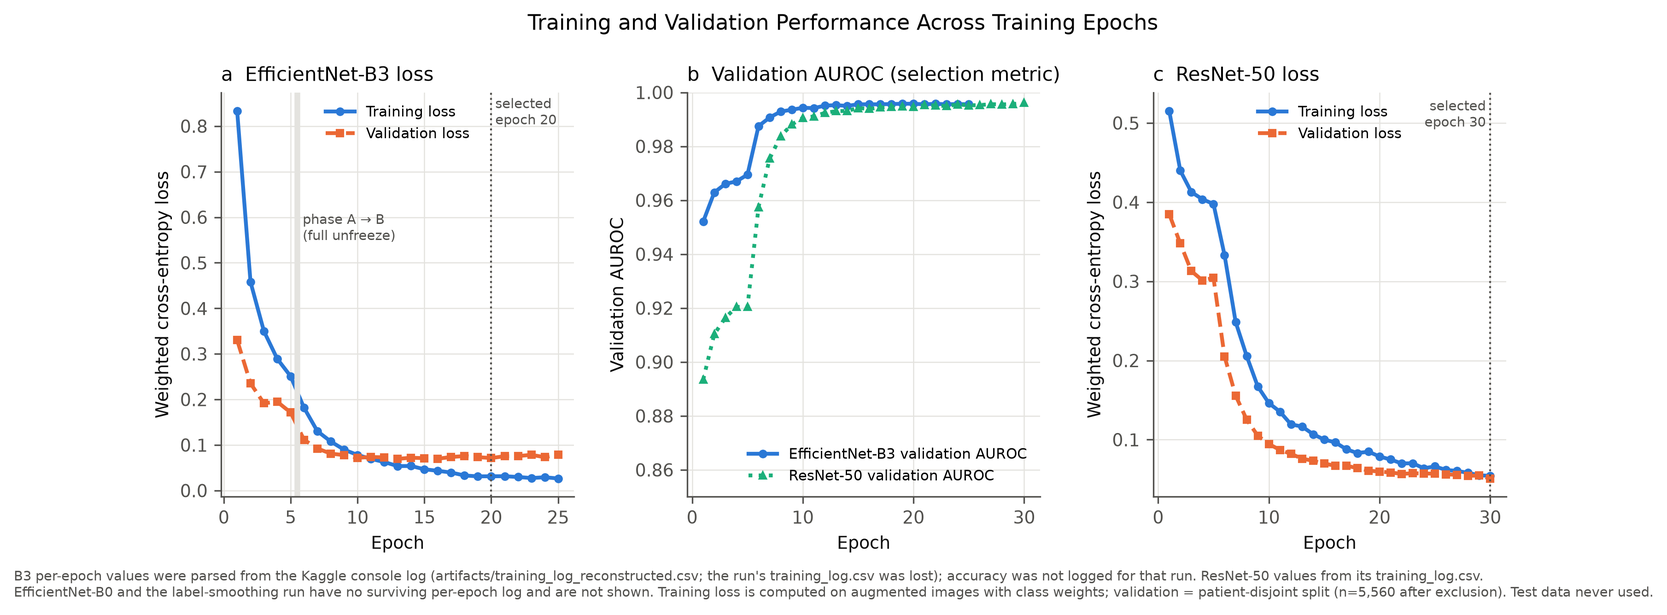
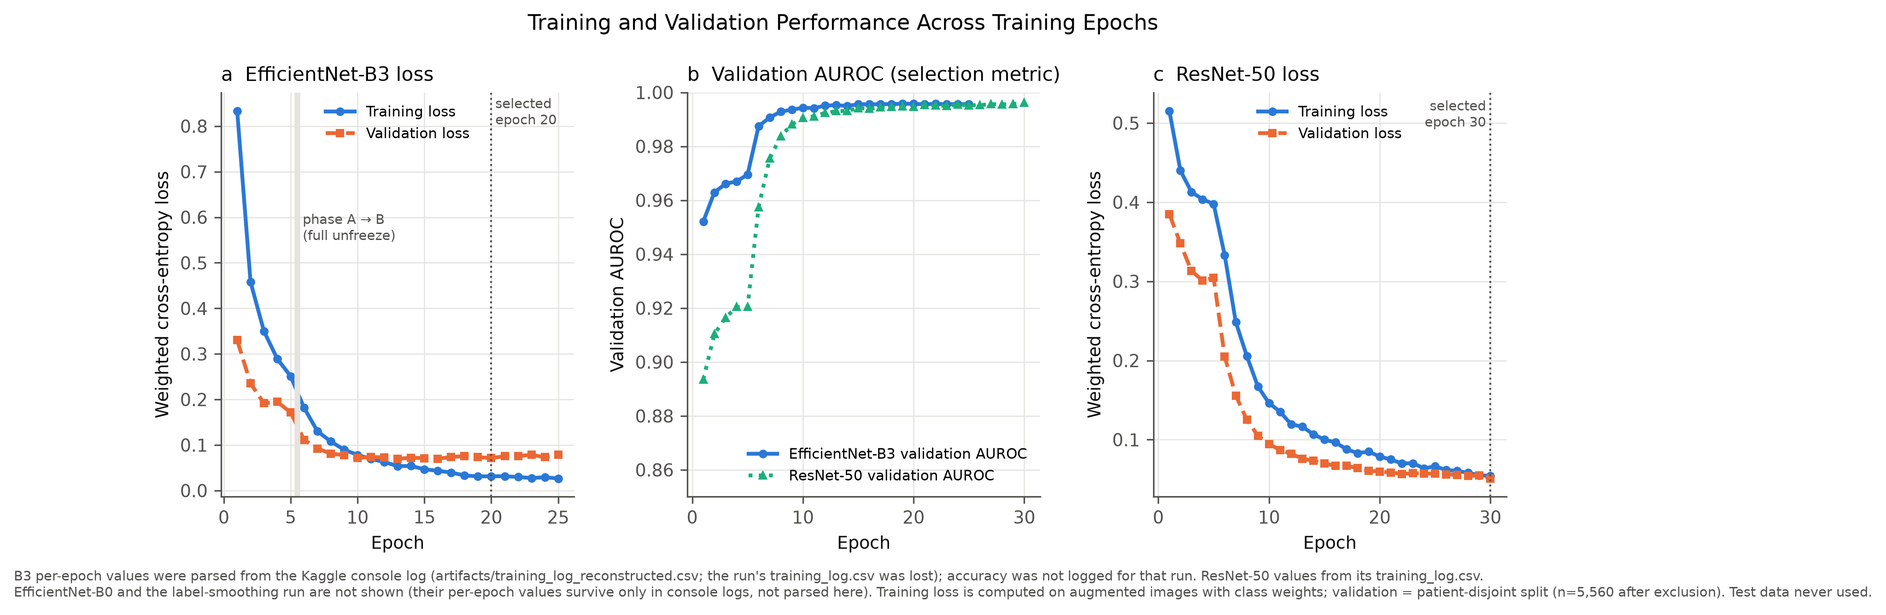
Verify B0 test-patient exclusion and Kermany dataset details
- B0: the audited checkpoint's weights are bitwise identical to run
  20260920T095427Z, whose console log records the exclusion of the 305
  test-set patients (train 24,600 / val 5,560). The run's compiled
  utils/train bytecode also matches the current source. B1 split
  independence is now PASS for all four models.
- Kermany et al. 2018: device (Spectralis), centres, dates and three-tier
  grading verified against the published STAR Methods (archived Cell full
  text); "prior knowledge" caveats removed from tables and report. Notes
  that the paper's 108,312-image / 1,000-image-test description differs
  from the released 83,484 / 484-image DME+Normal data.
- Docs, checklist, Tables 1/3/5 and the Figure 4 note updated; final
  checks 11/11 pass.

diff --git a/research_outputs/scripts/09_make_tables.py b/research_outputs/scripts/09_make_tables.py
@@ -53,8 +53,8 @@ def main():
         return {"Dataset/source": src, "Subset": subset, "Images": n_override or (f"{len(d):,}" if d is not None else "NR"),
                 "Unique patients": f"{d.patient.nunique():,}" if d is not None else "NR", "Eyes / volumes": "NR (not encoded in Kermany filenames)",
                 "DME-positive": f"{int(d.label.sum()):,}" if d is not None else "NR", "DME-negative (Normal)": f"{int((d.label == 0).sum()):,}" if d is not None else "NR",
-                "Split": split, "Unit of splitting": unit, "Dimensionality": "2D B-scan", "OCT device": "Heidelberg Spectralis according to the dataset paper (prior knowledge, not re-verified in this audit; not recorded per image)",
-                "Label source": "Kermany et al. 2018 class folders (grading protocol not re-verified in this audit)", "Independent of training": indep, "Notes": notes}
+                "Split": split, "Unit of splitting": unit, "Dimensionality": "2D B-scan", "OCT device": "Heidelberg Spectralis (Kermany et al. 2018, STAR Methods, verified from the published text; not recorded per image)",
+                "Label source": "Kermany et al. 2018 class folders; three-tier grading (students, 4 ophthalmologists, 2 senior retinal specialists) per STAR Methods", "Independent of training": indep, "Notes": notes}
 
     t1 = [
         r1("Kermany OCT2017 (Cell 2018), DME+NORMAL", "train/ folder, training pool after exclusion", pool, "train + validation (StratifiedGroupKFold 5-fold, 1 fold val)", "patient",
@@ -138,7 +138,7 @@ def main():
         ("Calibration protocol", "Single temperature, NLL fit (evaluate.fit_temperature). Original fit on the mismatched validation set (superseded); refit on the training-time validation split; test set never used for fitting"),
         ("Evaluation metrics", "Confusion-matrix metrics (manual + sklearn cross-check), AUROC (sklearn + DeLong cross-check), PR-AUC, Brier, log loss, ECE (10 bins)"),
         ("Statistical methods", "Wilson CIs; stratified / patient-cluster percentile bootstrap (B=2000); DeLong AUROC CI; exact McNemar + paired DeLong with Holm correction"),
-        ("Missing data / predictions", "No per-image predictions were saved originally (regenerated); B0 training log empty; B3 training_log.csv lost (console-parsed version used); training-time split manifest not saved"),
+        ("Missing data / predictions", "No per-image predictions were saved originally (regenerated); B0 run folder log empty (identical-weights run 20260920T095427Z has the full log); B3 training_log.csv lost (console-parsed version used); training-time split manifest not saved at training time (rebuilt by script 11)"),
         ("Leakage concerns and evidence", "Train/val<->test patient overlap 0 after exclusion; 0 exact or visually confirmed near duplicates test<->pool; validation-set mismatch at evaluation time contaminates threshold/temperature; test set distribution differs from training (dimensions, border artifact)"),
         ("External validation", "None. All results are internal to the Kermany dataset"),
         ("Deviation from original methodology (this audit)", "No retraining. New: re-inference of saved checkpoints on test set and on the readable images of the 305 excluded patients (count in Table 1 / Table 2); leakage scans; statistics"),

diff --git a/research_outputs/scripts/07_build_literature_tables.py b/research_outputs/scripts/07_build_literature_tables.py
@@ -105,7 +105,7 @@ for _, r in perf[perf.threshold == 0.5].iterrows():
         continue
     lit.loc[len(lit)] = row(study="This project (DME-deeplearning), reconstructed 2026-10-27", source_location=r.prediction_source, model=r.model + " (ImageNet-pretrained, fine-tuned)",
                             input_representation="single 2D B-scan (300x300 letterbox)", task="DME vs Normal (Kermany folder labels; CNV/DRUSEN excluded)", positive_class="DME",
-                            device="Heidelberg Spectralis per Kermany et al. 2018 (from prior knowledge, not re-verified in this audit; not recorded per image)", dataset="Kermany OCT2017 official test split",
+                            device="Heidelberg Spectralis (Kermany et al. 2018, STAR Methods, verified from the published text; not recorded per image)", dataset="Kermany OCT2017 official test split",
                             cohort_role="internal held-out test (same source as training; patient-disjoint after exclusion)", evaluation_unit="B-scan",
                             n_evaluated=f"{int(r.n)} B-scans ({int(r.n_dme)} DME / {int(r.n_normal)} Normal)", accuracy=r.accuracy, sensitivity=r.sensitivity,
                             specificity=r.specificity, f1=r.f1, auroc=r.auroc, auroc_ci_lo=r.auroc_ci_lo, auroc_ci_hi=r.auroc_ci_hi,

diff --git a/research_outputs/scripts/08_make_figures.py b/research_outputs/scripts/08_make_figures.py
@@ -216,7 +216,7 @@ def figure4():
     ax.set(xlabel="Epoch", ylabel="Weighted cross-entropy loss"); ax.set_title("c  ResNet-50 loss", loc="left"); ax.legend(fontsize=7.5)
     fig.suptitle("Training and Validation Performance Across Training Epochs", fontsize=11, y=1.03)
     fig.text(0.0, -0.08, "B3 per-epoch values were parsed from the Kaggle console log (artifacts/training_log_reconstructed.csv; the run's training_log.csv was lost); accuracy was not logged for that run. "
-             "ResNet-50 values from its training_log.csv.\nEfficientNet-B0 and the label-smoothing run have no surviving per-epoch log and are not shown. Training loss is computed on augmented images with class weights; "
+             "ResNet-50 values from its training_log.csv.\nEfficientNet-B0 and the label-smoothing run are not shown (their per-epoch values survive only in console logs, not parsed here). Training loss is computed on augmented images with class weights; "
              "validation = patient-disjoint split (n=5,560 after exclusion). Test data never used.", fontsize=7, color=INK2)
     for _, r in b3.iterrows():
         rows.append({"model": "EfficientNet-B3", "epoch": r.global_epoch, "train_loss": r.train_loss, "val_loss": r.val_loss, "val_auc": r.val_auc})

diff --git a/research_outputs/scripts/03_reinfer_excluded_pool.py b/research_outputs/scripts/03_reinfer_excluded_pool.py
@@ -3,9 +3,9 @@ Phase B3 (supplementary, NEW analysis) -- score the existing checkpoints on the
 7,503 train/ images whose patients also appear in the official test set.
 
 build_splits() removes every image of those 305 patients from BOTH train and
-validation before training (logged for B3, ResNet-50 and the A5 run; the B0
-run's log is empty, so for B0 this is implied by kaggle/entry.py's code path
-but not verified from a log). These images were therefore never used to fit or
+validation before training (logged for all four models; B0's own run log is
+empty, but its weights are bitwise identical to run 20260920T095427Z, whose
+log records the exclusion). These images were therefore never used to fit or
 select any of those models, which makes them a second, ~15x larger unseen
 internal set. They are NOT independent of the official test set (same
 patients; 114 are byte-identical copies of test images), so they are reported

diff --git a/research_outputs/tables/table3_literature_comparison.md b/research_outputs/tables/table3_literature_comparison.md
@@ -24,8 +24,8 @@
 | Zhu 2025 | Custom 3D CNN initialised from Models Genesis, two FC layers | 3D OCT volume (resampled to 128x128x128; split into two 64-slice cubes) | non-DME vs DME (ICO guideline definitions; hard exudates NOT counted as DME) | Cirrus HD-OCT 4000 and Topcon 3D-OCT 2000 (pooled) · External validation Total | OCT volume | external validation | 1509 volumes | 0.842 | 0.818 | 0.879 | 0.864 | 0.916 (0.902–0.930) | Table 3 | C | AUROC CI by DeLong (pROC 1.14.0). Table 2 lists 3 dataset labels over 4 device columns (Zeiss 1374 / Topcon 4907 / Zeiss 1269 / Topcon 240); JSIEC = 1374+4907 = 6281 matches the stated development total, so Chaozhou = 1269 (Zeiss) and STU-2nd = 240 (Topcon) is inferred. Per-device results are in online supplementary table 2, not retrieved (HTTP 403). |
 | Zhu 2025 | Custom 3D CNN initialised from Models Genesis, two FC layers | 3D OCT volume (resampled to 128x128x128; split into two 64-slice cubes) | non-CI-DME vs CI-DME (ICO guideline definitions; hard exudates NOT counted as DME) | Cirrus HD-OCT 4000 and Topcon 3D-OCT 2000 (pooled) · Testing | OCT volume | hold-out test (internal, JSIEC, patient-level random 15%) | NR (15% of 6281 development volumes; exact count not reported) | 0.770 | 0.795 | 0.737 | 0.795 | 0.859 (0.812–0.906) | Table 3 | D | AUROC CI by DeLong (pROC 1.14.0). Table 2 lists 3 dataset labels over 4 device columns (Zeiss 1374 / Topcon 4907 / Zeiss 1269 / Topcon 240); JSIEC = 1374+4907 = 6281 matches the stated development total, so Chaozhou = 1269 (Zeiss) and STU-2nd = 240 (Topcon) is inferred. Per-device results are in online supplementary table 2, not retrieved (HTTP 403). |
 | Zhu 2025 | Custom 3D CNN initialised from Models Genesis, two FC layers | 3D OCT volume (resampled to 128x128x128; split into two 64-slice cubes) | non-CI-DME vs CI-DME (ICO guideline definitions; hard exudates NOT counted as DME) | Cirrus HD-OCT 4000 and Topcon 3D-OCT 2000 (pooled) · External validation Total | OCT volume | external validation | 1509 volumes | 0.799 | 0.786 | 0.821 | 0.833 | 0.881 (0.859–0.902) | Table 3 | D | AUROC CI by DeLong (pROC 1.14.0). Table 2 lists 3 dataset labels over 4 device columns (Zeiss 1374 / Topcon 4907 / Zeiss 1269 / Topcon 240); JSIEC = 1374+4907 = 6281 matches the stated development total, so Chaozhou = 1269 (Zeiss) and STU-2nd = 240 (Topcon) is inferred. Per-device results are in online supplementary table 2, not retrieved (HTTP 403). |
-| This project (DME-deeplearning) | EfficientNet-B3 (ImageNet-pretrained, fine-tuned) | single 2D B-scan (300x300 letterbox) | DME vs Normal (Kermany folder labels; CNV/DRUSEN excluded) | Heidelberg Spectralis per Kermany et al. 2018 (from prior knowledge, not re-verified in this audit; not recorded per image) · Kermany OCT2017 official test split | B-scan | internal held-out test (same source as training; patient-disjoint after exclusion) | 484 B-scans (242 DME / 242 Normal) | 0.998 | 0.996 | 1.000 | 0.998 | 1.000 (1.000–1.000) | research_outputs/data/test_predictions_EfficientNet-B3.csv | A | Threshold 0.5, raw softmax. DeLong AUROC CI degenerate (perfect separation). |
-| This project (DME-deeplearning) | EfficientNet-B0 (ImageNet-pretrained, fine-tuned) | single 2D B-scan (300x300 letterbox) | DME vs Normal (Kermany folder labels; CNV/DRUSEN excluded) | Heidelberg Spectralis per Kermany et al. 2018 (from prior knowledge, not re-verified in this audit; not recorded per image) · Kermany OCT2017 official test split | B-scan | internal held-out test (same source as training; patient-disjoint after exclusion) | 484 B-scans (242 DME / 242 Normal) | 0.998 | 0.996 | 1.000 | 0.998 | 1.000 (1.000–1.000) | research_outputs/data/test_predictions_EfficientNet-B0.csv | A | Threshold 0.5, raw softmax. DeLong AUROC CI degenerate (perfect separation). |
-| This project (DME-deeplearning) | ResNet-50 (ImageNet-pretrained, fine-tuned) | single 2D B-scan (300x300 letterbox) | DME vs Normal (Kermany folder labels; CNV/DRUSEN excluded) | Heidelberg Spectralis per Kermany et al. 2018 (from prior knowledge, not re-verified in this audit; not recorded per image) · Kermany OCT2017 official test split | B-scan | internal held-out test (same source as training; patient-disjoint after exclusion) | 484 B-scans (242 DME / 242 Normal) | 0.998 | 0.996 | 1.000 | 0.998 | 1.000 (1.000–1.000) | research_outputs/data/test_predictions_ResNet-50.csv | A | Threshold 0.5, raw softmax. DeLong AUROC CI degenerate (perfect separation). |
+| This project (DME-deeplearning) | EfficientNet-B3 (ImageNet-pretrained, fine-tuned) | single 2D B-scan (300x300 letterbox) | DME vs Normal (Kermany folder labels; CNV/DRUSEN excluded) | Heidelberg Spectralis (Kermany et al. 2018, STAR Methods, verified from the published text; not recorded per image) · Kermany OCT2017 official test split | B-scan | internal held-out test (same source as training; patient-disjoint after exclusion) | 484 B-scans (242 DME / 242 Normal) | 0.998 | 0.996 | 1.000 | 0.998 | 1.000 (1.000–1.000) | research_outputs/data/test_predictions_EfficientNet-B3.csv | A | Threshold 0.5, raw softmax. DeLong AUROC CI degenerate (perfect separation). |
+| This project (DME-deeplearning) | EfficientNet-B0 (ImageNet-pretrained, fine-tuned) | single 2D B-scan (300x300 letterbox) | DME vs Normal (Kermany folder labels; CNV/DRUSEN excluded) | Heidelberg Spectralis (Kermany et al. 2018, STAR Methods, verified from the published text; not recorded per image) · Kermany OCT2017 official test split | B-scan | internal held-out test (same source as training; patient-disjoint after exclusion) | 484 B-scans (242 DME / 242 Normal) | 0.998 | 0.996 | 1.000 | 0.998 | 1.000 (1.000–1.000) | research_outputs/data/test_predictions_EfficientNet-B0.csv | A | Threshold 0.5, raw softmax. DeLong AUROC CI degenerate (perfect separation). |
+| This project (DME-deeplearning) | ResNet-50 (ImageNet-pretrained, fine-tuned) | single 2D B-scan (300x300 letterbox) | DME vs Normal (Kermany folder labels; CNV/DRUSEN excluded) | Heidelberg Spectralis (Kermany et al. 2018, STAR Methods, verified from the published text; not recorded per image) · Kermany OCT2017 official test split | B-scan | internal held-out test (same source as training; patient-disjoint after exclusion) | 484 B-scans (242 DME / 242 Normal) | 0.998 | 0.996 | 1.000 | 0.998 | 1.000 (1.000–1.000) | research_outputs/data/test_predictions_ResNet-50.csv | A | Threshold 0.5, raw softmax. DeLong AUROC CI degenerate (perfect separation). |
 
 *A = within-project; B = similar task and unit (2D B-scan) but different dataset/population/label definition; C = different evaluation unit or input (volume-level/3D); D = different task, not plotted. Published values copied as printed (two internally inconsistent CIs in Tang 2021 flagged in notes). NR = not reported. This project's AUROC CI is degenerate (perfect separation).*

diff --git a/research_outputs/tables/table1_dataset_setup.md b/research_outputs/tables/table1_dataset_setup.md
@@ -2,9 +2,9 @@
 
 | Dataset/source | Subset | Images | Unique patients | Eyes / volumes | DME-positive | DME-negative (Normal) | Split | Unit of splitting | Dimensionality | OCT device | Label source | Independent of training | Notes |
 |---|---|---|---|---|---|---|---|---|---|---|---|---|---|
-| Kermany OCT2017 (Cell 2018), DME+NORMAL | train/ folder, training pool after exclusion | 30,160 | 3,472 | NR (not encoded in Kermany filenames) | 7,072 | 23,088 | train + validation (StratifiedGroupKFold 5-fold, 1 fold val) | patient | 2D B-scan | Heidelberg Spectralis according to the dataset paper (prior knowledge, not re-verified in this audit; not recorded per image) | Kermany et al. 2018 class folders (grading protocol not re-verified in this audit) | NA | Kaggle runs: train 24,600 / val 5,560 (logged). Per-class split of these two subsets not logged; the local re-run of build_splits gives a different partition (scikit-learn version). |
-| Kermany OCT2017 | test/ folder (official test split) | 484 | 368 | NR (not encoded in Kermany filenames) | 242 | 242 | held-out test | patient (fixed by dataset authors) | 2D B-scan | Heidelberg Spectralis according to the dataset paper (prior knowledge, not re-verified in this audit; not recorded per image) | Kermany et al. 2018 class folders (grading protocol not re-verified in this audit) | Yes, at patient level after exclusion of 305 shared patients from train/val | 368 patients; 6 patients have both DME and Normal images; 0 exact duplicates with the training pool; distribution differs from training (no 512x512 images). |
-| Kermany OCT2017 | train/ images of the 305 test-set patients (excluded from training) | 7,503 | 305 | NR (not encoded in Kermany filenames) | 4,276 | 3,227 | supplementary unseen evaluation pool (NEW in this audit) | patient | 2D B-scan | Heidelberg Spectralis according to the dataset paper (prior knowledge, not re-verified in this audit; not recorded per image) | Kermany et al. 2018 class folders (grading protocol not re-verified in this audit) | Not used for training/validation (verified for B3, ResNet-50; implied for B0); NOT independent of the test set (same patients; 114 byte-identical copies of test images) | All 7,503 images decoded with cv2.imread during re-inference. Across train/+test/, 25 truncated JPEGs are rejected by cv2.imdecode but decode with cv2.imread (with a 'Premature end of JPEG' warning); 0 are unreadable. |
+| Kermany OCT2017 (Cell 2018), DME+NORMAL | train/ folder, training pool after exclusion | 30,160 | 3,472 | NR (not encoded in Kermany filenames) | 7,072 | 23,088 | train + validation (StratifiedGroupKFold 5-fold, 1 fold val) | patient | 2D B-scan | Heidelberg Spectralis (Kermany et al. 2018, STAR Methods, verified from the published text; not recorded per image) | Kermany et al. 2018 class folders; three-tier grading (students, 4 ophthalmologists, 2 senior retinal specialists) per STAR Methods | NA | Kaggle runs: train 24,600 / val 5,560 (logged). Per-class split of these two subsets not logged; the local re-run of build_splits gives a different partition (scikit-learn version). |
+| Kermany OCT2017 | test/ folder (official test split) | 484 | 368 | NR (not encoded in Kermany filenames) | 242 | 242 | held-out test | patient (fixed by dataset authors) | 2D B-scan | Heidelberg Spectralis (Kermany et al. 2018, STAR Methods, verified from the published text; not recorded per image) | Kermany et al. 2018 class folders; three-tier grading (students, 4 ophthalmologists, 2 senior retinal specialists) per STAR Methods | Yes, at patient level after exclusion of 305 shared patients from train/val | 368 patients; 6 patients have both DME and Normal images; 0 exact duplicates with the training pool; distribution differs from training (no 512x512 images). |
+| Kermany OCT2017 | train/ images of the 305 test-set patients (excluded from training) | 7,503 | 305 | NR (not encoded in Kermany filenames) | 4,276 | 3,227 | supplementary unseen evaluation pool (NEW in this audit) | patient | 2D B-scan | Heidelberg Spectralis (Kermany et al. 2018, STAR Methods, verified from the published text; not recorded per image) | Kermany et al. 2018 class folders; three-tier grading (students, 4 ophthalmologists, 2 senior retinal specialists) per STAR Methods | Not used for training/validation (verified for B3, ResNet-50; implied for B0); NOT independent of the test set (same patients; 114 byte-identical copies of test images) | All 7,503 images decoded with cv2.imread during re-inference. Across train/+test/, 25 truncated JPEGs are rejected by cv2.imdecode but decode with cv2.imread (with a 'Premature end of JPEG' warning); 0 are unreadable. |
 | Duke DME (Chiu et al. BOE 2015) | segmentation (U-Net) | 110 annotated B-scans | 10 | 10 volumes (61 B-scans each; 11 annotated) | NA (all DME subjects) | NA | train 6 / val 2 (01, 08) / test 2 (06, 07) subjects | patient | 2D B-scan | Heidelberg Spectralis according to the dataset paper (prior knowledge, not re-verified) | manual fluid masks, grader 1 (manualFluid1) | Yes (disjoint subjects) | Ungraded (NaN) pixels treated as background by segment.py. |
 
 *Counts computed from files on disk (research_outputs/data/image_hashes.csv). Patient = ID parsed from the Kermany filename; eye and volume identity are not available. No patient counts are inferred from image counts.*

diff --git a/research_audit/leakage_audit.md b/research_audit/leakage_audit.md
@@ -14,7 +14,7 @@ Evidence files: `research_outputs/data/leakage_summary.json`, `image_hashes.csv`
 | # | Candidate | Finding | Evidence |
 |---|---|---|---|
 | 1 | Train/test leakage | **Not found.** 305 of the 368 test patients also appear in `train/`, and 114 test images are byte-identical copies of `train/` images from those patients. Every image of these patients is removed from train and validation before training. After removal, patient overlap = **0** and exact-duplicate pairs test↔training pool = **0**. | `leakage_summary.json`; `full_run_log.txt:83`; ResNet-50 and A5 run logs |
-| 2 | Patient-level overlap | **0 after exclusion.** This is verified from logs for B3, ResNet-50 and A5. For B0 it is implied by code (`kaggle/entry.py` always passes `--test-dir`), but the B0 log is empty. Eye-level identity is not available. | as above |
+| 2 | Patient-level overlap | **0 after exclusion.** Verified from run logs for all four models. B0's own folder has a 0-byte log, but its weights are bitwise identical to the checkpoint of run `20260920T095427Z`, whose log records the exclusion (305 patients, train 24,600 / val 5,560). Eye-level identity is not available. | as above |
 | 3 | Duplicate or near-duplicate images | MD5: 0 test↔pool pairs, 0 within test. dHash (64-bit, stored as exact hex, Hamming ≤ 4): **5 test↔pool candidate pairs, 0 within test, 0 with conflicting labels**, all Normal–Normal. **Visual inspection: all 5 are visibly different scans** (different foveal contour, tilt, vessel shadows and noise; generic retinal shape gives false hash matches). Without eye IDs, two scans of one eye filed under different patient numbers cannot be excluded. All 37,663 + 484 images are hashed; 25 truncated JPEGs that `cv2.imdecode` rejects are decoded with `cv2.imread`, the decoder the training pipeline uses. Within the training pool there are 365 exact-duplicate pairs, 9 of them with **conflicting labels** (minor label noise in training). *Correction (2026-10-27): an earlier version of this audit reported 10 candidate pairs (3 cross-label). That count came from hashes stored as float64, which cannot hold 64 bits exactly, so Hamming distances were wrong and changed between reruns. Fixed in `02_leakage_scan.py`; the rerun is deterministic.* | `near_duplicate_pairs.csv`; visual contact sheets |
 | 4 | Same OCT volume split across sets | Volume IDs do not exist in Kermany. Patient-level grouping is the strongest grouping available, and it is enforced. | filenames |
 | 5 | Labels encoded in filenames, directories, borders or overlays | The class name is in the filename and folder, but the model sees pixels only; `OCTDataset` reads labels from the dataframe, not from the image. White wedge-shaped corner fill (rotation artifact) is present but **balanced by class in the training pool** (Normal 59.6%, DME 58.4%; AUROC of the flag alone 0.49), so it cannot be a learned shortcut. No text overlays seen. | `border_artifact_by_class.csv` |
@@ -83,7 +83,7 @@ Interpretation: on genuinely held-out validation patients the models are less co
 
 ## 6. Supplementary evaluation on images never used by any model (new analysis)
 
-These are the 7,503 `train/` images belonging to the 305 patients who also appear in the official test set. `build_splits()` removed them from both training and validation, so no model was fitted or selected on them (verified from logs for B3 and ResNet-50; implied by code for B0). They come from the same patients as the test set, but they are **different images** (114 are byte-identical copies of test images). They are reported **separately** with **patient-clustered** CIs and are never pooled with the official test set. All 7,503 images were readable (4,276 DME / 3,227 Normal; 305 patients). Threshold 0.5, raw probabilities. CIs: patient-cluster percentile bootstrap (B = 2,000, seed 42). Source: `research_outputs/data/supplementary_excluded_pool_performance.csv`.
+These are the 7,503 `train/` images belonging to the 305 patients who also appear in the official test set. `build_splits()` removed them from both training and validation, so no model was fitted or selected on them (verified from run logs for all four models; for B0 via the identical-weights run `20260920T095427Z`). They come from the same patients as the test set, but they are **different images** (114 are byte-identical copies of test images). They are reported **separately** with **patient-clustered** CIs and are never pooled with the official test set. All 7,503 images were readable (4,276 DME / 3,227 Normal; 305 patients). Threshold 0.5, raw probabilities. CIs: patient-cluster percentile bootstrap (B = 2,000, seed 42). Source: `research_outputs/data/supplementary_excluded_pool_performance.csv`.
 
 | Model | TP / FP / TN / FN | Accuracy (95% CI) | Sensitivity (95% CI) | Specificity (95% CI) | F1 (95% CI) | AUROC (95% CI) |
 |---|---|---|---|---|---|---|

diff --git a/research_audit/repository_inventory.md b/research_audit/repository_inventory.md
@@ -65,7 +65,7 @@ SHA-256 checksums of every checkpoint and `metrics.json` were recorded before an
 |---|---|---|
 | B3 (primary) | `full_run_log.txt` (Kaggle console stream); `artifacts/training_log_reconstructed.csv` (parsed from it by `reconstruct_training_log.py`) | Authentic per-epoch train/val loss and val AUC. **No accuracy** was logged in this run's console output, and the direct `training_log.csv` fetch was lost. |
 | ResNet-50 | `artifacts/kaggle/20260920T110729Z/artifacts/training_log.csv`, `run.log` | Complete: train/val loss, train/val accuracy, val AUC, LR, 30 epochs |
-| B0 | `artifacts/kaggle/20260920T092347Z/run.log` is **0 bytes**; no `training_log.csv` | **Missing.** Best epoch, val AUC and the test-patient exclusion cannot be confirmed from a log. |
+| B0 | `artifacts/kaggle/20260920T092347Z/run.log` is **0 bytes**; no `training_log.csv` | **Found elsewhere.** The same model's full console log is in `artifacts/kaggle/20260920T095427Z/run.log` (weights bitwise identical; best epoch 19, val AUC 0.9950; exclusion logged). Found in a later pass of this audit. |
 | B3 + LS 0.05 | `artifacts/kaggle/20260922T160023Z/run.log` | Console log present; `training_log.csv` lost |
 | U-Net | `.../segmentation/segmentation_training_log.csv`, `dme-oct-segment.log` | 6 epochs, present |
 
@@ -89,7 +89,7 @@ None. The repository has no bibliography, `.bib` file, or literature review. `RE
 | # | Conflict | Evidence | Resolution in this audit |
 |---|---|---|---|
 | C1 | **Validation set size: 5,560 (training log) vs 6,047 (every `metrics.json`).** | `full_run_log.txt` line 83 and the ResNet-50 and A5 run logs give "val 6997->5560". `metrics.json` gives `val_n: 6047`. The project's own report flags this as unresolved (§2.2, §6.5). | **Explained.** The Kaggle runs used scikit-learn **1.4.2** (`full_run_log.txt` line 30 pip messages). Running the identical `build_splits()` locally (scikit-learn 1.9.0) gives pre-exclusion val **7,535** (vs 6,997 on Kaggle) and post-exclusion val **6,047**, exactly the `metrics.json` value. `StratifiedGroupKFold` therefore produced a **different patient partition** locally. The "validation" set used in `evaluate.py` to fit the temperature and choose the tuned threshold is not the training-time validation set, and almost certainly contains patients the models were trained on. Consequence: the **tuned thresholds (0.971, 0.608, 0.628, 0.89) and temperatures are fitted on data that overlaps training**. Test-set results at the fixed 0.5 threshold, and the AUROC, are unaffected. See `leakage_audit.md` §5. |
-| C2 | README claims "patient leakage ruled out". | The training-time exclusion is real and logged for B3, ResNet-50 and A5. The official test split has 305/368 patients shared with `train/`. | Train↔test patient leakage is excluded by construction for the logged runs. For B0 it is **not verifiable from logs** (0-byte log), though `kaggle/entry.py` always passes `--test-dir`, so the code path implies exclusion. Validation↔training contamination at evaluation time (C1) was not previously known. |
+| C2 | README claims "patient leakage ruled out". | The training-time exclusion is real and logged for all four models (B0 via run `20260920T095427Z`). The official test split has 305/368 patients shared with `train/`. | Train↔test patient leakage is excluded by construction for the logged runs. For B0 it is verified through run `20260920T095427Z` (identical weights, exclusion logged). Validation↔training contamination at evaluation time (C1) was not previously known. |
 | C3 | README: "Calibrated via temperature scaling (ECE 0.0028 → 0.0027)" is presented as a calibration improvement. | The change is 0.0002 on n = 484, the temperature was fitted on contaminated validation data (C1), and for B0/ResNet-50 ECE got slightly worse. | Report as "no material change in calibration". |
 | C4 | Report §3.3: the three architectures are "independent" and "converge on the identical confusion matrix". | All three have 241/1/242/0 at 0.5. | Confirmed in Phase B (same single false negative image). Agreement across architectures does not by itself rule out a shared data artifact, because all three use identical data, preprocessing and split. |
 | C5 | Phase-4 sign-off: "Dice ~0.01 is close to what a model predicting almost no foreground would score". | Under `dice_coefficient` with eps = 1e-7, an empty prediction scores **0** on fluid-positive images and **1** on empty-GT images. A Dice near 0.01 is the signature of predicting **almost everything as foreground**. | Investigated in Phase B4 by regenerating masks. |

diff --git a/research_outputs/research_results_report.md b/research_outputs/research_results_report.md
@@ -28,6 +28,10 @@ To detect diabetic macular edema (DME) versus normal retina from single 2D OCT B
 
 Source: the Kermany et al. 2018 OCT2017 release (83,484 training images), DME and NORMAL classes only (`research_outputs/tables/table1_dataset_setup.md`).
 
+Per the paper's STAR Methods (verified from the published text) **[E]**: Spectralis OCT (Heidelberg Engineering); retrospective adult cohorts from five centres (Shiley Eye Institute UCSD, California Retinal Research Foundation, Medical Center Ophthalmology Associates, Shanghai First People's Hospital, Beijing Tongren Eye Center), July 2013 – March 2017; one horizontal foveal B-scan per exported image. Labels started from the patient's most recent EMR diagnosis and passed a three-tier grading: students (quality control, artifact exclusion), four ophthalmologists (independent grading), and two senior retinal specialists (final verification).
+
+Two differences from the released data matter here. The paper describes 108,312 training images and a 1,000-image test set (250 per class), whereas this project's release has 83,484 training images and 242 test images per class. The paper does not describe the released test set's selection, which is consistent with the test-set differences found in §7.3.
+
 - `train/`: 11,348 DME + 26,315 Normal images. Training and validation use a **patient-grouped** StratifiedGroupKFold (5 folds, seed 42, one fold held out for validation). Patient = the ID in the filename; eye and volume identity are not available.
 - The official `test/` split (242 DME + 242 Normal; 368 patients) shares **305 patients** with `train/`. The project removed every `train/` image of those patients (7,503 images) before training, leaving a training pool of 30,160 images (Kaggle runs: 24,600 train / 5,560 validation).
 - After exclusion: test↔training patient overlap 0 and exact duplicates 0 **[R]** (`leakage_summary.json`).
@@ -222,7 +226,7 @@ No per-epoch logs survive for B0 or the label-smoothing run. Validation is the p
 - Patient is the finest grouping available; correlated B-scans from one eye or volume cannot be identified.
 - The original tuned thresholds and temperatures were not valid (§7.2). They have been refit on the rebuilt training-time split; the refit depends on reproducing the scikit-learn 1.4.2 partition, which was confirmed by exact count matching rather than a saved manifest.
 - Per-image outputs were not saved originally; the reconstructed outputs come from a different software stack (agreement with every stored aggregate was confirmed).
-- The B0 training log is empty, so its exclusion of test patients is verified from code only. The B3 per-epoch log is a console reconstruction without accuracy.
+- The audited B0 run folder's log is empty; its exclusion of test patients is verified through an identical-weights run whose log survives (`20260920T095427Z`). The B3 per-epoch log is a console reconstruction without accuracy.
 - Labels come from the public dataset folders. Kermany "DME" vs "NORMAL" is a different label definition from clinically graded DME in diabetic cohorts, and negatives exclude other pathology.
 - Segmentation is non-functional, and its ground-truth handling of ungraded pixels is flawed.
 - The single B-scan design cannot assess centre involvement.
@@ -286,7 +290,7 @@ python research_outputs/scripts/12_refit_calibration_threshold.py
 | Existing results [E] | `metrics.json` aggregates; Grad-CAM randomisation check; training logs; segmentation log values |
 | Independently reconstructed [R] | all test-set confusion matrices and metrics, AUROC, calibration metrics; segmentation Dice/IoU; split counts |
 | New analyses [N] | CIs and paired tests; duplicate and patient-overlap scan; dimension and border-artifact analyses; validation-split mismatch diagnosis and measured contamination (84.3%); training-time split rebuild and threshold/temperature refit; supplementary unseen-pool evaluation; segmentation failure-mode analysis; literature extraction |
-| Unverified [U] | B0 test-patient exclusion (log empty); Zhu 2025 supplementary per-device results; Kermany device/acquisition details (from prior knowledge) |
+| Unverified [U] | Zhu 2025 supplementary per-device results |
 
 ## 18. Recommended future experiments
 

diff --git a/research_outputs/final_audit_checklist.md b/research_outputs/final_audit_checklist.md
@@ -30,7 +30,7 @@ Automated results: `research_outputs/data/final_checks.json` (from `scripts/10_f
 | Setup | Isolated branch/directory; user work preserved | **PASS** | Branch `research-audit` from clean `main`; outputs in new directories only |
 | A | Repository inventory with conflicts | **PASS** | `research_audit/repository_inventory.md` (8 conflicts documented) |
 | B1 | Implementation established from source | **PASS** | `metric_verification.md` B1 |
-| B1 | Patient-level split independence | **PASS** for B3, ResNet-50, A5 · **NOT VERIFIABLE** for B0 | B0 run log is 0 bytes; exclusion implied by `kaggle/entry.py` only |
+| B1 | Patient-level split independence | **PASS** (all four models) | B0: audited weights bitwise identical to run `20260920T095427Z`, whose log records the exclusion (`metric_verification.md` B1) |
 | B1 | Threshold/calibration fitted without test data | **PASS** (test not used). Original fit used a contaminated validation set (84.3% training images) and is superseded; **refit** on the rebuilt training-time validation split (n = 5,560, counts match the Kaggle log exactly) | `leakage_audit.md` §5, §5.1; `refit_calibration_threshold.csv` |
 | B2 | Metrics reconstructed with CIs | **PASS** | Table 2 |
 | B2 | Undefined metrics handled explicitly | **PASS** | NaN logic in `04_compute_metrics.py`; none occurred |
@@ -48,7 +48,7 @@ Automated results: `research_outputs/data/final_checks.json` (from `scripts/10_f
 | E | Figure 1 (within-project) | **PASS** | 3 genuinely evaluated models, full 0–1 axis |
 | E | Figure 2 (ROC) | **PASS** | Raw probabilities stated; no literature curves overlaid |
 | E | Figure 3 (literature) | **PASS** | Grouped by category, explicit non-comparability caption, plus Table 3 |
-| E | Figure 4 (learning curves) | **PASS** (B3, ResNet-50) · **NOT VERIFIABLE** (B0, A5: logs missing) | No epochs invented |
+| E | Figure 4 (learning curves) | **PASS** (B3, ResNet-50) · **NOT PLOTTED** (B0, A5) | No epochs invented. B0 and A5 per-epoch console logs exist (`20260920T095427Z`, `20260922T160023Z`) but are not plotted |
 | E | Figure 5 (reliability) | **PASS** | Fixed 10-bin scheme, counts shown |
 | E | Figure 6 (segmentation performance) | **NOT APPLICABLE** | Replaced by Audit Figure A1 because the evaluation is invalid |
 | E | 300-dpi PNG + vector PDF | **PASS** | Check 11 (dpi ≥ 300) |
@@ -71,7 +71,7 @@ Automated results: `research_outputs/data/final_checks.json` (from `scripts/10_f
 
 1. ~~Tuned thresholds and temperatures are invalid~~ **Resolved:** refit on the rebuilt training-time validation split (scripts 11–12). Residual caveat: on the easier test set the refit operating points give perfect or near-perfect counts, and refit scaling worsens test ECE for B3 and B0; validation specificity at 97% sensitivity (0.956–0.982) is the more realistic figure.
 2. **No external validation**, and the official test set appears unrepresentative (easier). The unseen-pool estimate (AUROC 0.996–0.997, accuracy 97.1–97.5%) is the more conservative internal figure.
-3. **B0 test-patient exclusion** cannot be confirmed from a log.
+3. ~~B0 test-patient exclusion cannot be confirmed from a log~~ **Resolved:** verified via run `20260920T095427Z` (bitwise-identical weights; exclusion logged).
 4. **The segmentation model is non-functional**, and its ground-truth handling of ungraded pixels is flawed.
 5. **Zhu 2025 online supplementary tables** were not retrieved (HTTP 403).
-6. **Kermany device and grading details** are cited from prior knowledge and were not re-verified.
+6. ~~Kermany device and grading details from prior knowledge~~ **Resolved:** verified against the published STAR Methods (archived Cell full text): Spectralis OCT; five centres; July 2013 – March 2017; three-tier grading (students → four ophthalmologists → two senior retinal specialists).

diff --git a/research_audit/metric_verification.md b/research_audit/metric_verification.md
@@ -16,7 +16,7 @@ All values on this page come from `research_outputs/data/*.csv`, generated by `r
 | Test set | Official Kermany `test/`: 242 DME + 242 Normal from 368 patients. 6 test patients have images in both classes. | `research_outputs/data/leakage_summary.json` |
 | Same test images for all models | **Yes.** The same 484 files are in the same order, checked by an assertion on filenames. | `04_compute_metrics.py` (assert) |
 | Volume structure | Kermany provides single B-scans. The volume of origin is not recorded; one patient has up to 13 test images. | filenames |
-| Patient overlap across splits | Train↔val: 0 (asserted). Train/val↔test: 305 overlapping patients before exclusion, **0 after** (logged for the B3, ResNet-50 and A5 runs; recomputed here for the union of the training pool). For B0 the run log is 0 bytes, so exclusion is implied by `kaggle/entry.py` (always passes `--test-dir`) but **not verified from a log**. | `full_run_log.txt:83`; run logs; `leakage_summary.json` |
+| Patient overlap across splits | Train↔val: 0 (asserted). Train/val↔test: 305 overlapping patients before exclusion, **0 after** (logged for the B3, ResNet-50 and A5 runs; recomputed here for the union of the training pool). For B0 the audited run folder's log is 0 bytes, but the checkpoint's 360 weight tensors are **bitwise identical** to those of run `20260920T095427Z`, whose log records the exclusion; B0's compiled `utils`/`train` bytecode from the run is also identical to the current source. **Verified.** | `full_run_log.txt:83`; run logs; `leakage_summary.json` |
 | Checkpoint selection | Best **validation AUROC** within the run. Early stopping on validation loss (patience 5). The test set is never used. | `train.py::run_phase` |
 | Selected epochs (from checkpoints) | B3: epoch 20 (phase B), val AUC 0.9958 · B0: **epoch 19, val AUC 0.9950** (recovered from the checkpoint; the report said "not recorded") · ResNet-50: epoch 30, val AUC 0.9961 · B3+LS: epoch 13, val AUC 0.9952 | `research_outputs/data/checkpoint_metadata.json` |
 | Thresholds | (a) 0.5 on raw softmax P(DME). (b) A "tuned" threshold chosen to give sensitivity ≥ 0.97 on temperature-scaled probabilities of a validation set. Original (superseded): B3 0.971, B0 0.608, ResNet-50 0.628, B3+LS 0.890. **Refit on the training-time validation split:** B3 0.181, B0 0.121, ResNet-50 0.219, B3+LS 0.096. | `evaluate.py::sweep_threshold`; checkpoints; `refit_calibration_threshold.csv` |

diff --git a/research_outputs/tables/table5_reproducibility_limitations.md b/research_outputs/tables/table5_reproducibility_limitations.md
@@ -13,7 +13,7 @@
 | Calibration protocol | Single temperature, NLL fit (evaluate.fit_temperature). Original fit on the mismatched validation set (superseded); refit on the training-time validation split; test set never used for fitting |
 | Evaluation metrics | Confusion-matrix metrics (manual + sklearn cross-check), AUROC (sklearn + DeLong cross-check), PR-AUC, Brier, log loss, ECE (10 bins) |
 | Statistical methods | Wilson CIs; stratified / patient-cluster percentile bootstrap (B=2000); DeLong AUROC CI; exact McNemar + paired DeLong with Holm correction |
-| Missing data / predictions | No per-image predictions were saved originally (regenerated); B0 training log empty; B3 training_log.csv lost (console-parsed version used); training-time split manifest not saved |
+| Missing data / predictions | No per-image predictions were saved originally (regenerated); B0 run folder log empty (identical-weights run 20260920T095427Z has the full log); B3 training_log.csv lost (console-parsed version used); training-time split manifest not saved at training time (rebuilt by script 11) |
 | Leakage concerns and evidence | Train/val<->test patient overlap 0 after exclusion; 0 exact or visually confirmed near duplicates test<->pool; validation-set mismatch at evaluation time contaminates threshold/temperature; test set distribution differs from training (dimensions, border artifact) |
 | External validation | None. All results are internal to the Kermany dataset |
 | Deviation from original methodology (this audit) | No retraining. New: re-inference of saved checkpoints on test set and on the readable images of the 305 excluded patients (count in Table 1 / Table 2); leakage scans; statistics |
